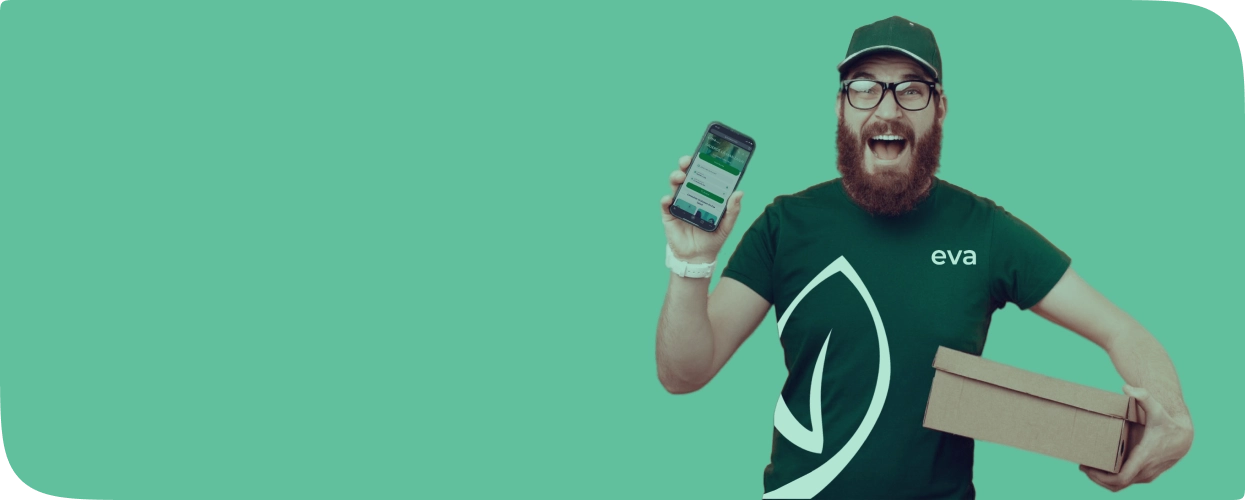
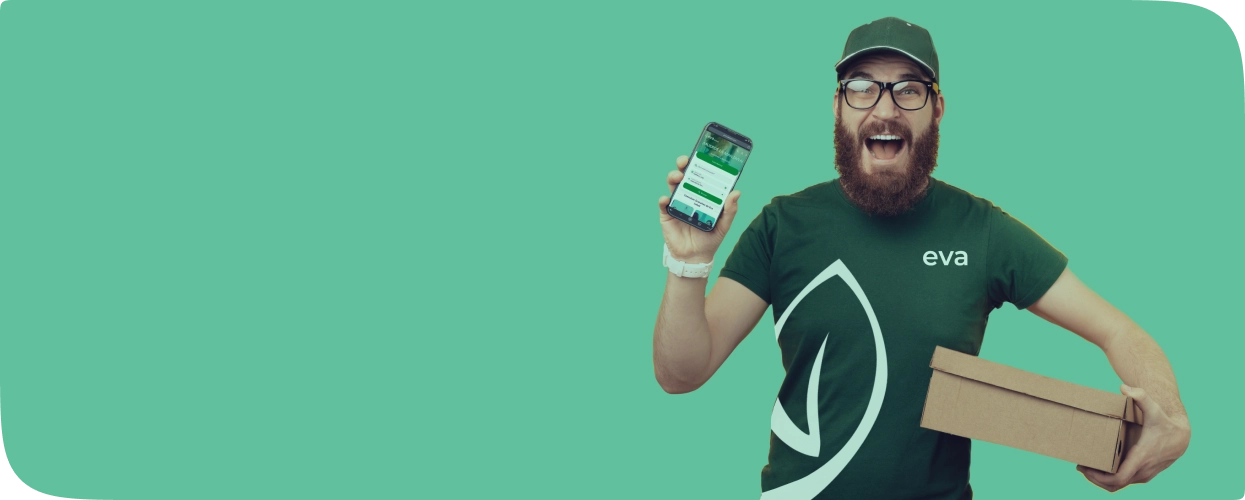
*

diff --git a/src/components/home/application/Application.module.css b/src/components/home/application/Application.module.css
@@ -8,7 +8,7 @@
 }
 
 .appImage {
-  background: url("/images/application/phone.webp");
+  background: url("/images/application/phone_hindi.webp");
   background-repeat: no-repeat;
   background-size: contain;
   position: relative;
